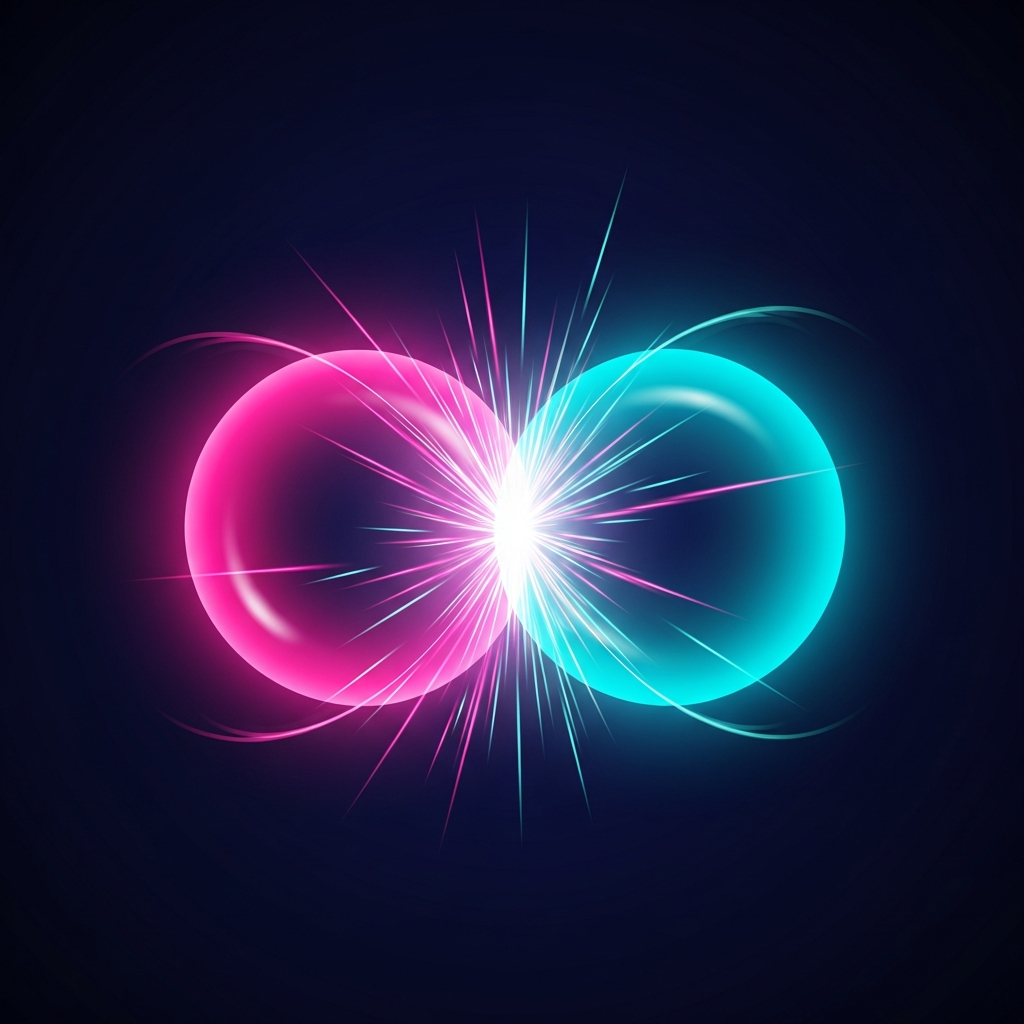
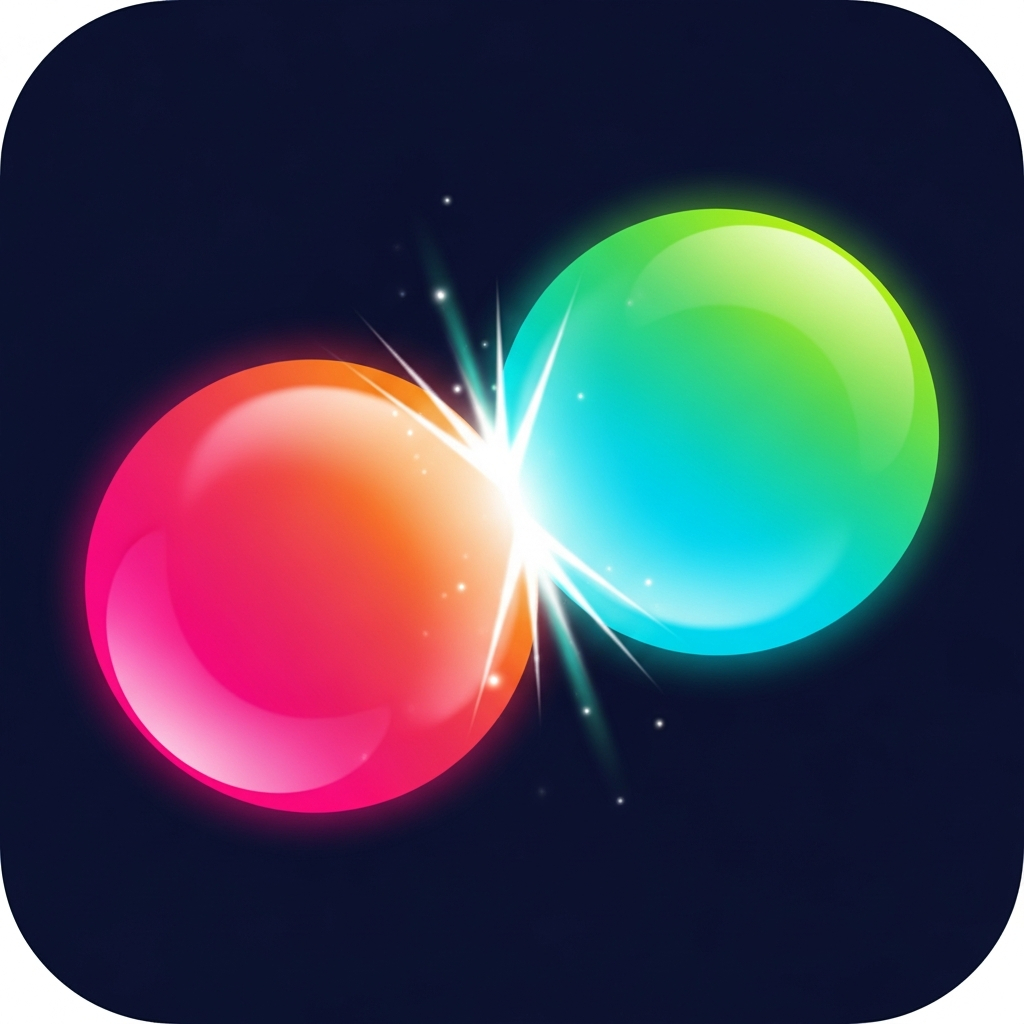
Prepare app store submission materials and assets
Generate app icons, create an app store metadata document including descriptions, keywords, and required assets, and update relevant configuration files for production.

Replit-Commit-Author: Agent
Replit-Commit-Session-Id: 3fad8019-397f-4388-a0c1-99f475718a2c
Replit-Commit-Checkpoint-Type: intermediate_checkpoint
Replit-Commit-Event-Id: 2102f7f1-2a08-4cbb-ad44-3dff9cce03eb
Replit-Commit-Screenshot-Url: https://storage.googleapis.com/screenshot-production-us-central1/dfd7cbc3-0a7d-4dcc-9859-5b5ecabf8935/3fad8019-397f-4388-a0c1-99f475718a2c/4ZPRhVZ
Replit-Helium-Checkpoint-Created: true

diff --git a/APP_STORE_ASSETS.md b/APP_STORE_ASSETS.md
@@ -1,0 +1,149 @@
+# Feud Fusion - App Store Submission Guide
+
+## App Information
+
+**App Name**: Feud Fusion: What Would They Say?
+
+**Subtitle**: Think Like Someone Else
+
+**Category**: Games > Trivia / Party
+
+**Age Rating**: 12+ (Infrequent/Mild Mature Themes - diverse cultural perspectives)
+
+---
+
+## App Description
+
+### Short Description (80 characters)
+Guess how different groups think in this hilarious social party game!
+
+### Full Description
+
+**Think you know what others would say? Prove it!**
+
+Feud Fusion challenges you to step outside your own perspective and guess how different groups of people would respond to hilarious, thought-provoking questions.
+
+**FEATURES:**
+
+**28 Unique Demographic Panels**
+From Gen Z to Boomers, Desi Parents to Gamers, Artists to Office Workers - each group thinks differently. Can you get inside their heads?
+
+**Three Risk Levels**
+- Most Common: Play it safe with the popular answer
+- Most Honest: Dig deeper for the real response  
+- Most Embarrassing: High risk, high reward!
+
+**Multiple Game Modes**
+- Solo Play: Test your perspective-reading skills
+- Party Mode: Pass the phone and compete with friends
+- Daily Challenge: Fresh questions every day
+
+**Earn & Customize**
+- Collect coins and star points as you play
+- Unlock 16 unique avatars
+- Choose from 5 stunning visual themes
+- Power up with Skip, Steal, and Double Bluff cards
+
+**5,500+ Questions**
+Our massive question library ensures you'll never see the same question twice!
+
+---
+
+## Keywords
+
+feud, trivia, party game, perspective, social game, family feud, guess, survey, multiplayer, thinking game
+
+---
+
+## What's New (Version 1.0.0)
+
+Welcome to Feud Fusion! This is our launch version featuring:
+- 28 demographic panels with unique perspectives
+- 5,500+ diverse questions
+- Solo, Party, and Daily Challenge modes
+- Avatar shop with 16 collectible avatars
+- 5 visual themes to customize your experience
+- Power cards: Skip, Steal, and Double Bluff
+
+---
+
+## Screenshots Needed
+
+1. **Home Screen** - Show the main menu with Play Now, Party Mode, Daily Challenge buttons
+2. **Panel Selection** - Display the carousel of demographic panels
+3. **Gameplay** - Active question with answer options and timer
+4. **Results** - Score reveal with points earned
+5. **Shop** - Avatar or theme selection screen
+6. **Profile** - Player stats and avatar display
+
+**Screenshot Sizes Required:**
+- iPhone 6.7" (1290 x 2796)
+- iPhone 6.5" (1284 x 2778)
+- iPhone 5.5" (1242 x 2208)
+- iPad Pro 12.9" (2048 x 2732)
+- Android Phone (1080 x 1920 or 1440 x 2560)
+
+---
+
+## Privacy Policy Requirements
+
+Your app will need a privacy policy URL. It should cover:
+- What data is collected (local storage only - no account required)
+- No personal data transmitted to servers
+- In-app purchases via Stripe
+- Contact information
+
+---
+
+## Support URL
+
+You'll need a support URL or email for users to contact you.
+
+---
+
+## App Store Icon Requirements
+
+**iOS:**
+- 1024 x 1024 px (App Store)
+- No transparency, no rounded corners (Apple adds these)
+
+**Android:**
+- 512 x 512 px (Google Play)
+- Foreground: 108 x 108 dp (safe zone for adaptive icons)
+- Background color: #0A0E27
+
+**Icon files are ready at:**
+- `assets/images/icon.png` (main icon)
+- `assets/images/splash-icon.png` (splash screen)
+
+---
+
+## Pricing
+
+**Base App**: Free
+
+**In-App Purchases:**
+- 5,000 Star Points: $4.99
+- Ad-Free Version: $4.99
+
+---
+
+## Checklist Before Submission
+
+- [ ] Set up Apple Developer Account ($99/year)
+- [ ] Set up Google Play Developer Account ($25 one-time)
+- [ ] Create privacy policy page
+- [ ] Create support page/email
+- [ ] Take 6 screenshots for each device size
+- [ ] Review and test all features
+- [ ] Configure Stripe for production payments
+- [ ] Submit for review
+
+---
+
+## Next Steps
+
+1. **Sign up for developer accounts** (links in main chat)
+2. **Create privacy policy** (can use free generators like termly.io)
+3. **Come back to Replit** and click Publish > Publish to App Store
+4. Follow the guided publishing flow
